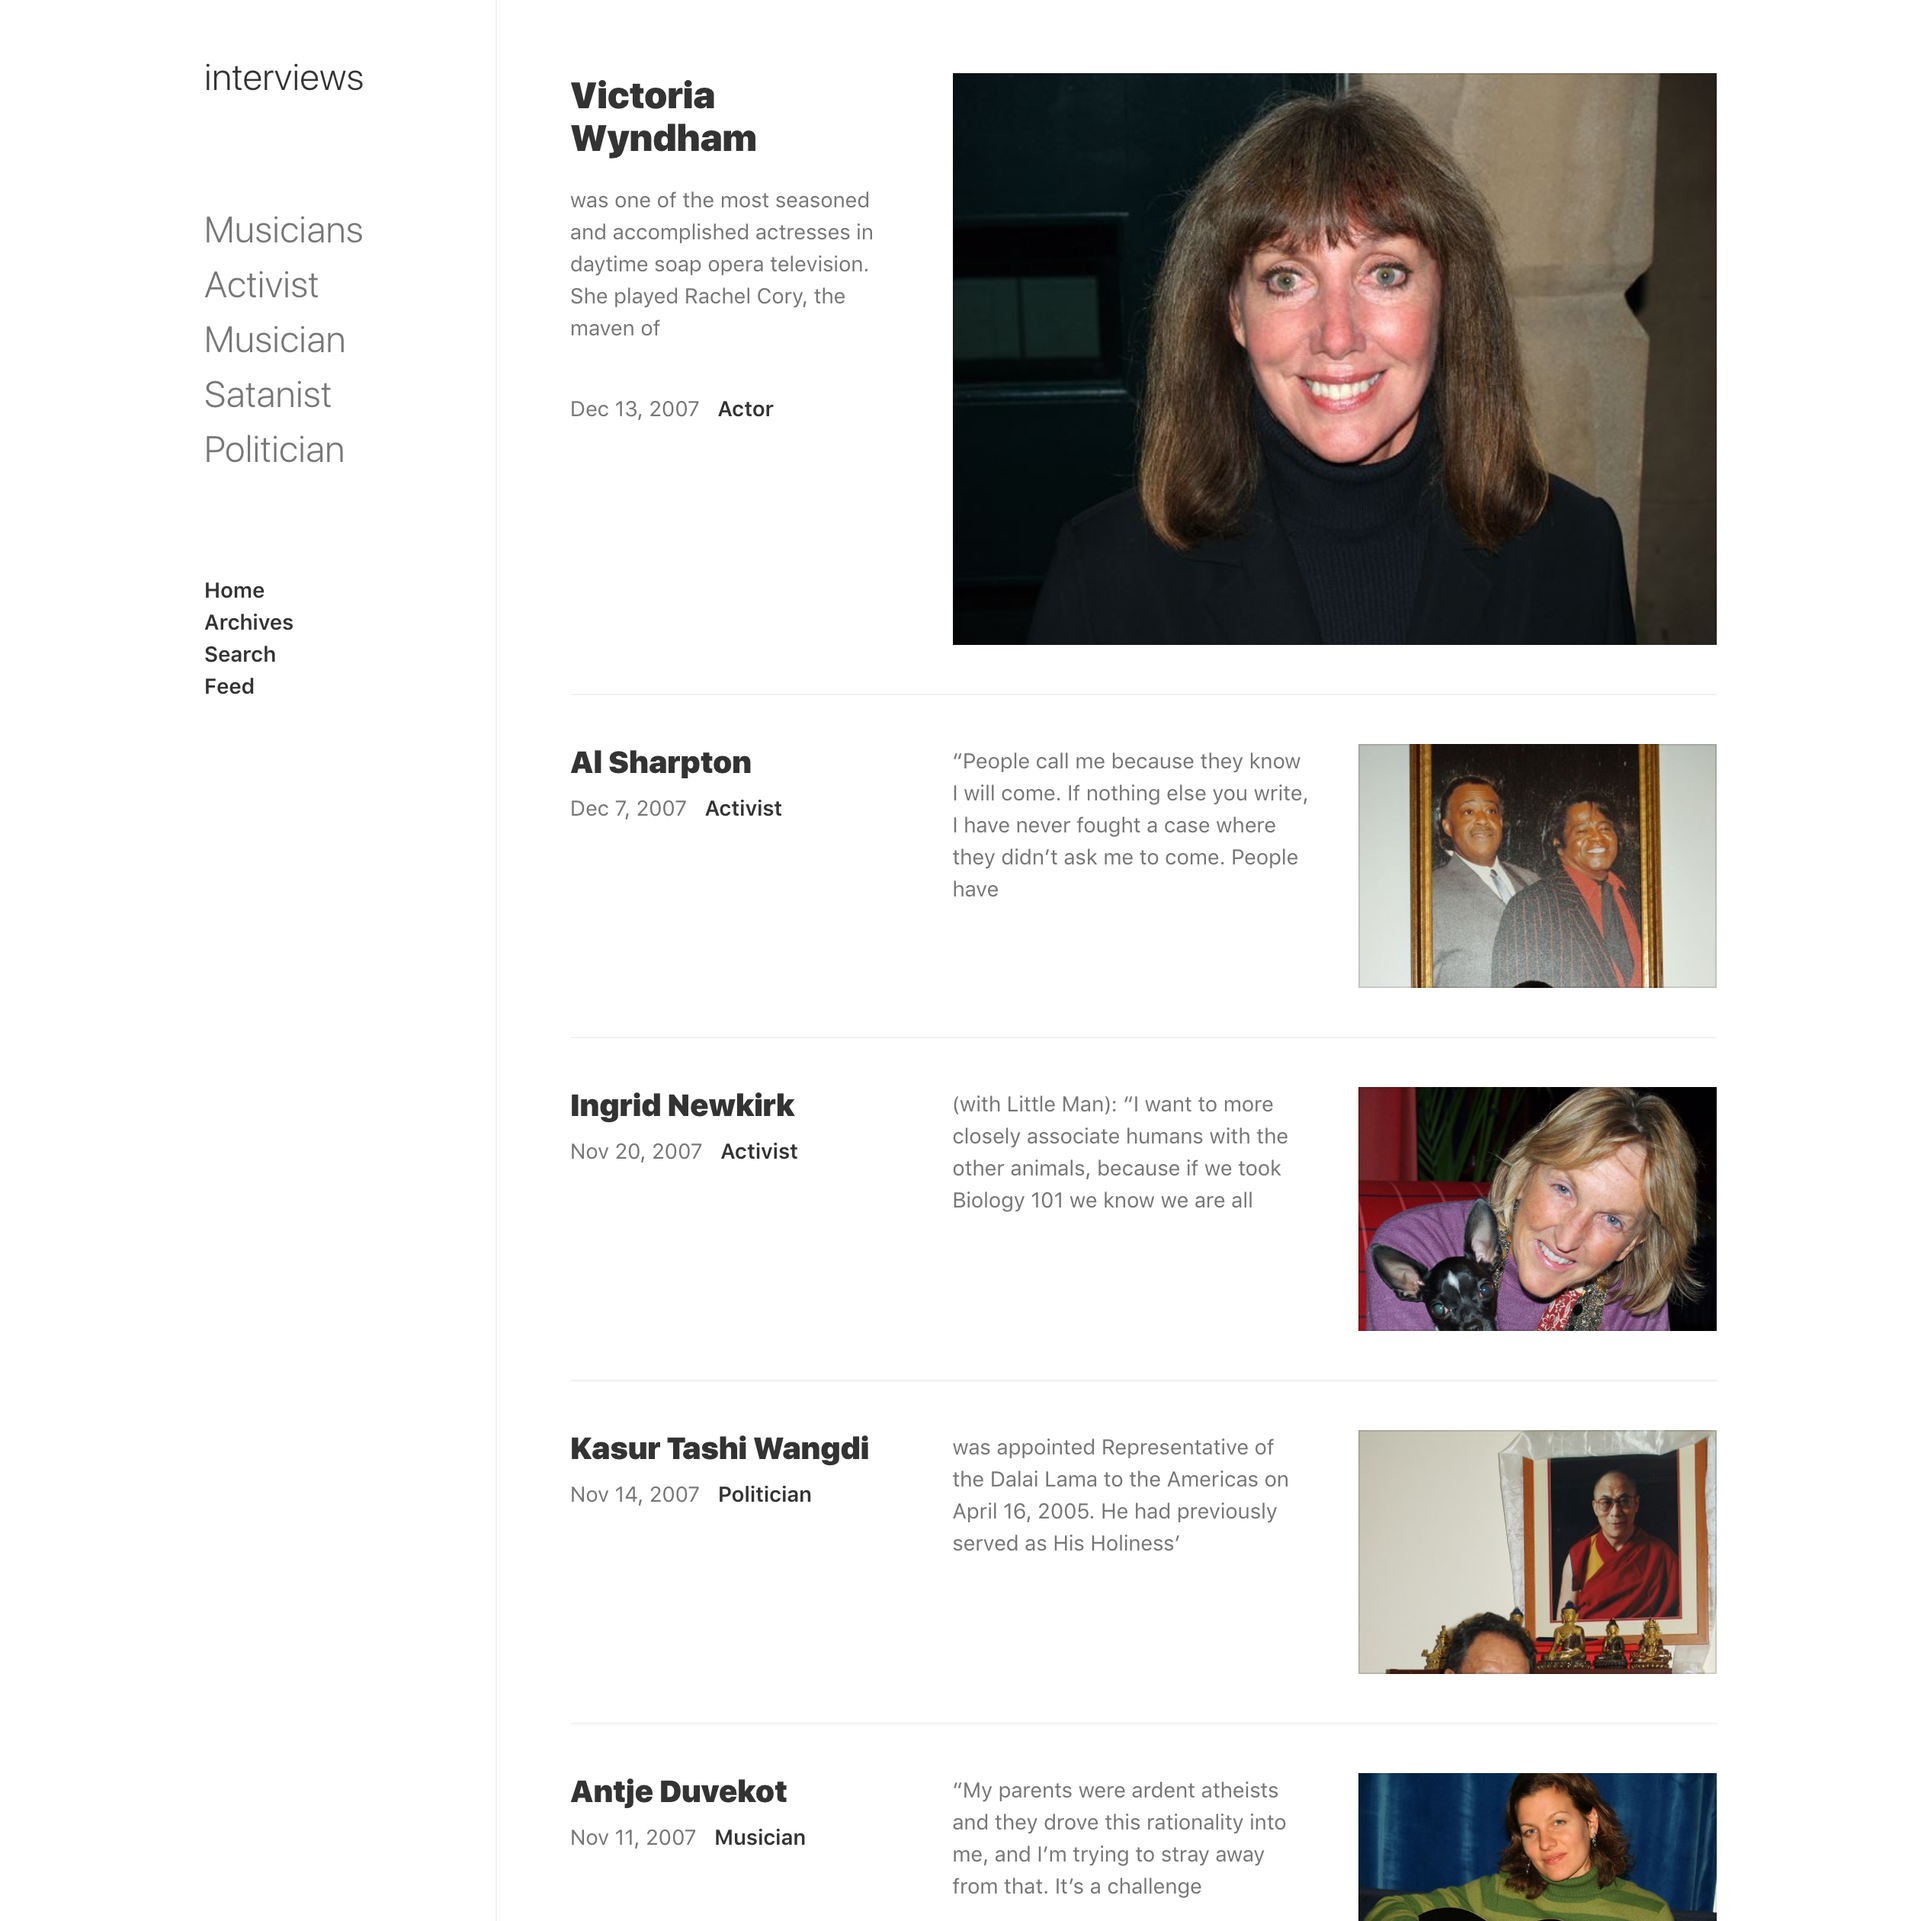
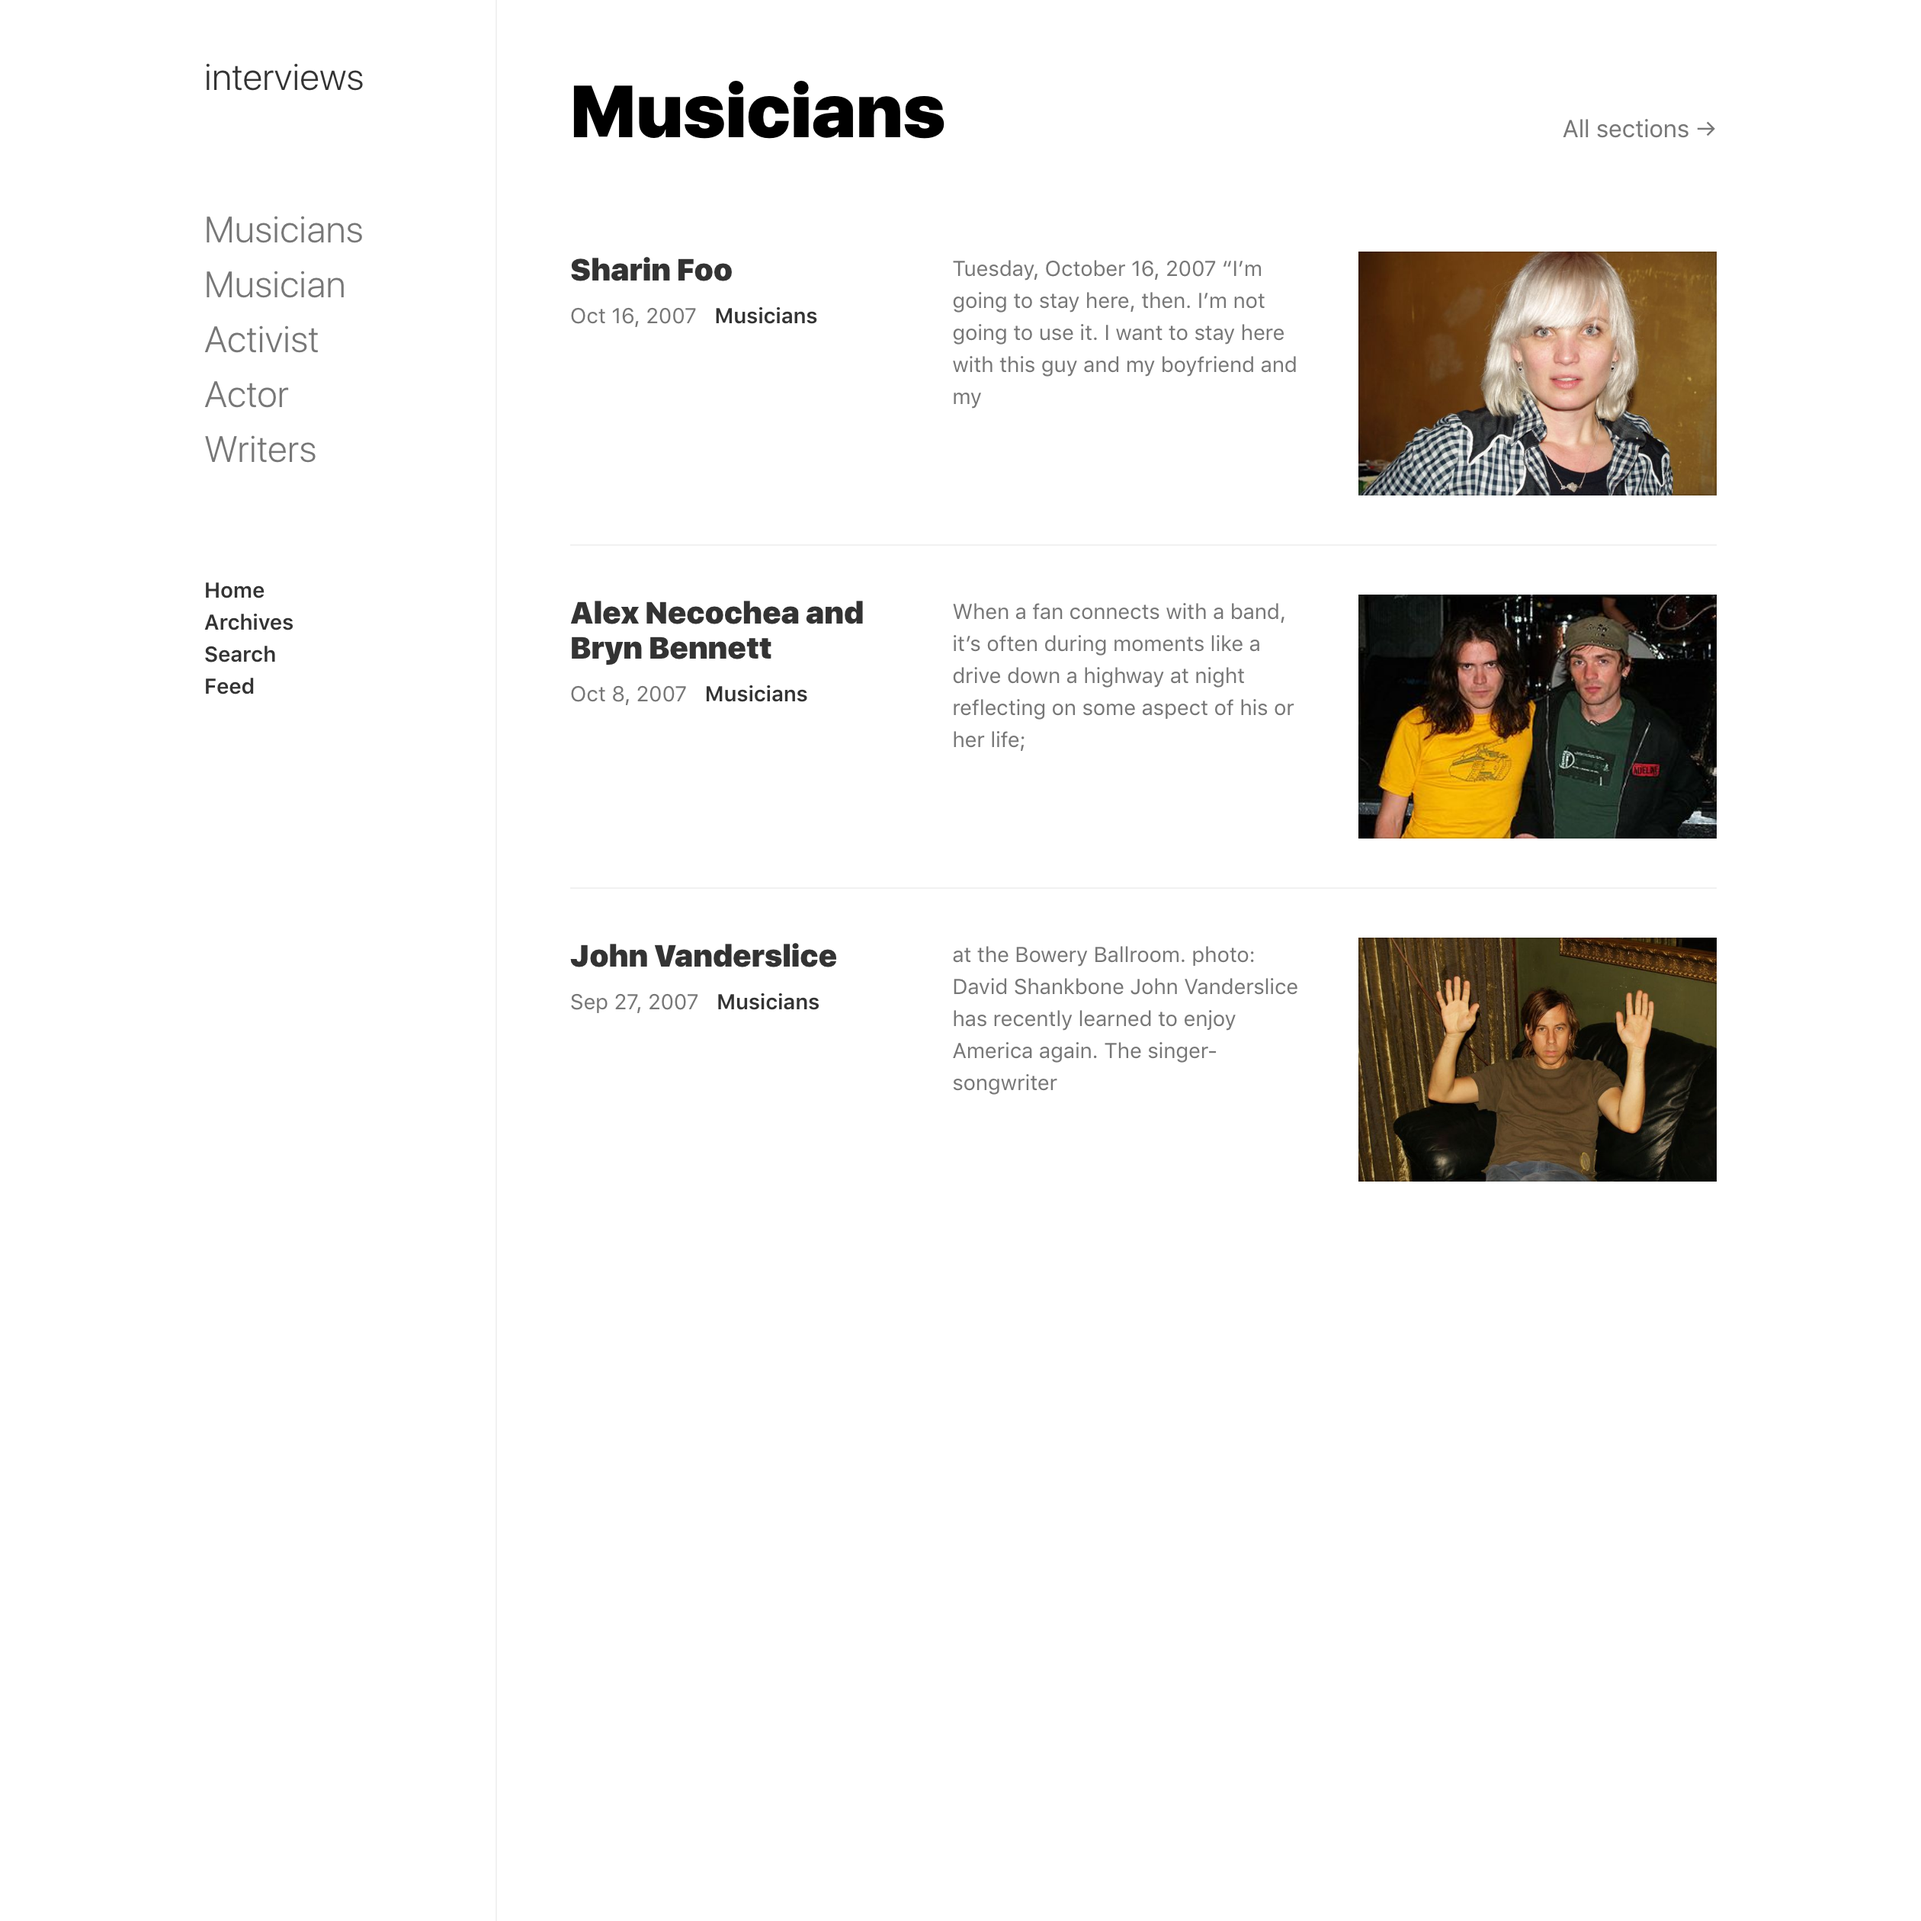
Updates template screenshots

diff --git a/scripts/template/buildFolders.js b/scripts/template/buildFolders.js
@@ -16,7 +16,9 @@ var config = require("config");
 var User = require("user");
 var Blog = require("blog");
 var basename = require("path").basename;
-var localClient = require("../clients/local");
+var localClient = require("clients/local");
+
+var DIR = require("helper/rootDir") + "/app/folders";
 
 function main(options, callback) {
   if (callback === undefined && typeof options === "function") {
@@ -24,12 +26,12 @@ function main(options, callback) {
     options = {};
   }
 
-  loadFoldersToBuild(__dirname, function (err, folders) {
+  loadFoldersToBuild(DIR, function (err, folders) {
     if (err) return callback(err);
 
     if (options.filter) folders = folders.filter(options.filter);
 
-    console.log("Loaded folders from", __dirname);
+    console.log("Loaded folders from", DIR);
     setupUser(function (err, user) {
       if (err) return callback(err);
 
@@ -81,7 +83,9 @@ function setupBlogs(user, folders, callback) {
           return next();
         }
 
+        console.log("handle", handle);
         Blog.create(user.uid, { handle: handle }, function (err, newBlog) {
+          if (err) return next(err);
           blogs[newBlog.id] = path;
           next();
         });
@@ -117,9 +121,14 @@ function loadFoldersToBuild(foldersDirectory, callback) {
         return foldersDirectory + "/" + name;
       })
       .filter(function (path) {
-        return basename(path)[0] !== "-" && fs.statSync(path).isDirectory();
+        return (
+          basename(path)[0] !== "-" &&
+          basename(path)[0] !== "." &&
+          fs.statSync(path).isDirectory()
+        );
       });
 
+    console.log(folders);
     callback(null, folders);
   });
 }

diff --git a/scripts/template/screenshots.js b/scripts/template/screenshots.js
@@ -11,24 +11,24 @@ const VIEW_DIRECTORY =
 
 const SCREENSHOTS = {
   blog: {
-    handle: "bjorn",
-    pages: ["/", "/search?q=fishing"],
+    handle: "video",
+    pages: ["/", "/search?q=type"],
   },
   magazine: {
     handle: "interviews",
-    pages: ["/", "/archives"],
+    pages: ["/tagged/musicians", "/archives"],
   },
   photo: {
-    handle: "bjorn",
+    handle: "william",
     pages: ["/", "/archives"],
   },
   portfolio: {
-    handle: "interviews",
-    pages: ["/", "/ingrid-newkirk"],
+    handle: "bjorn",
+    pages: ["/page/2", "/lake-smalsjn-dalarna-sweden-16632501564-o"],
   },
   reference: {
-    handle: "ferox",
-    pages: ["/", "/iems-l13-3"],
+    handle: "frances",
+    pages: ["/", "/marshfield-george-woodward-wickersham-house-cedarhurst-new-york-copy"],
   },
 };
 
